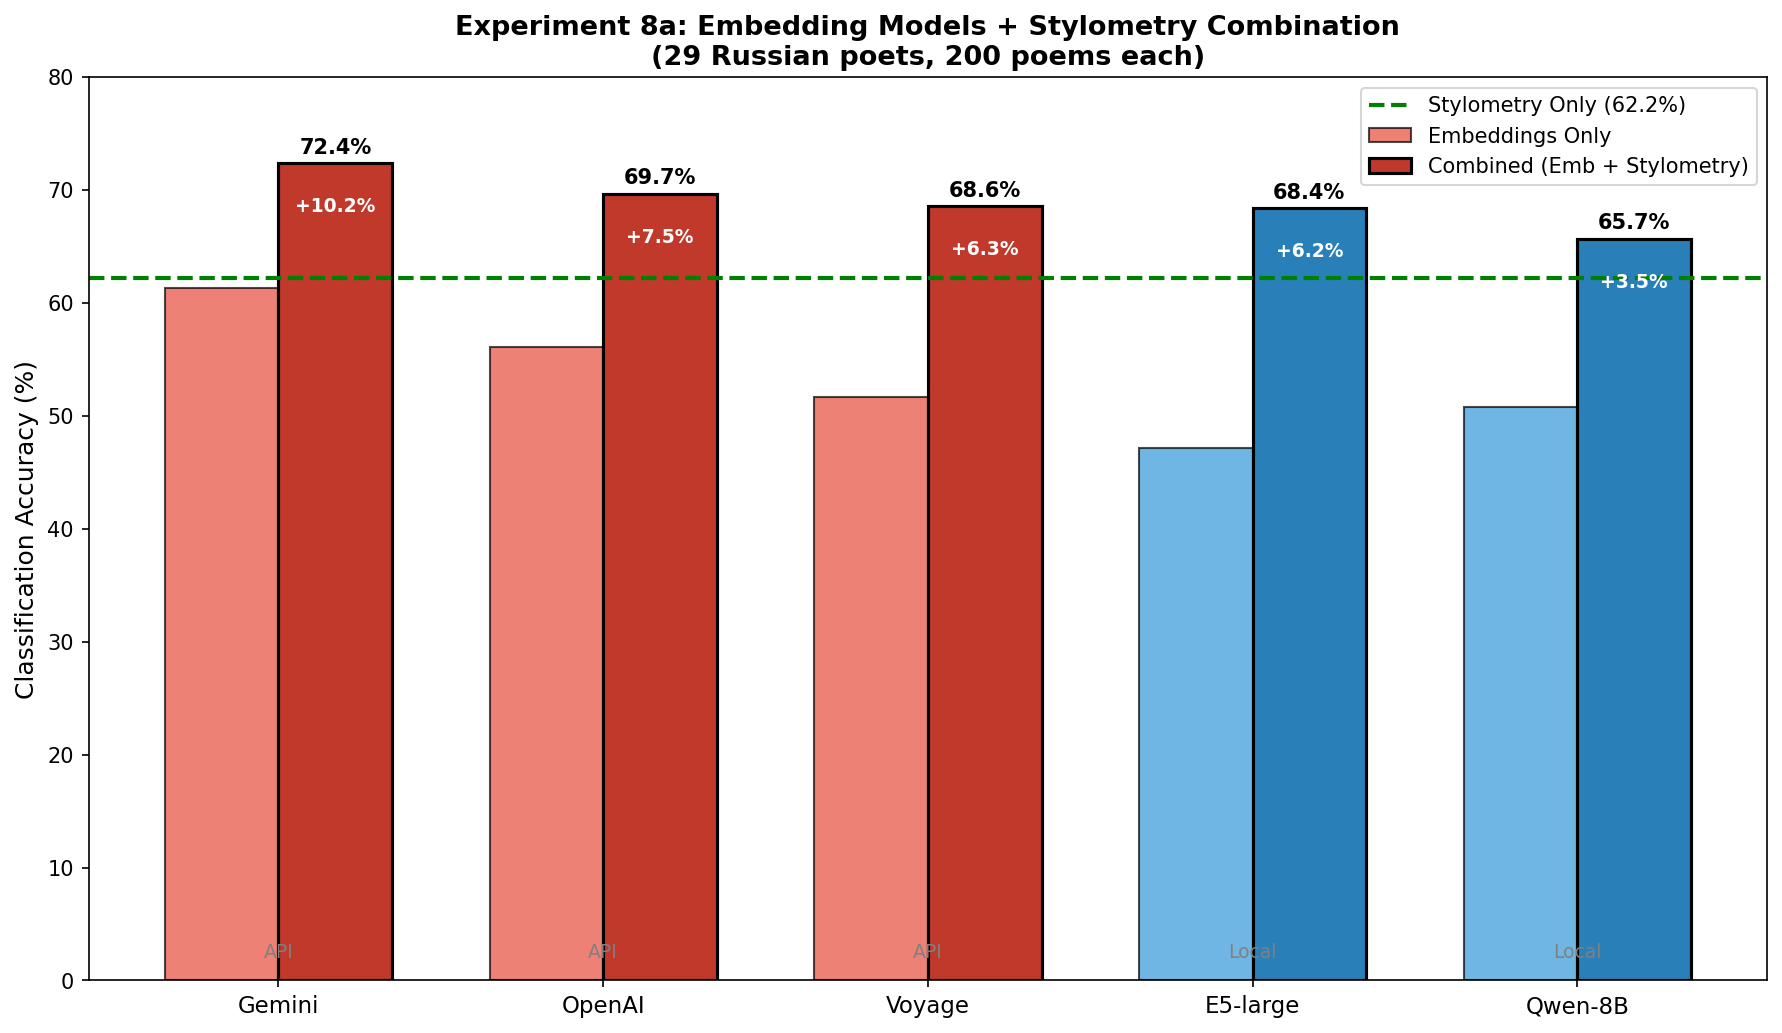
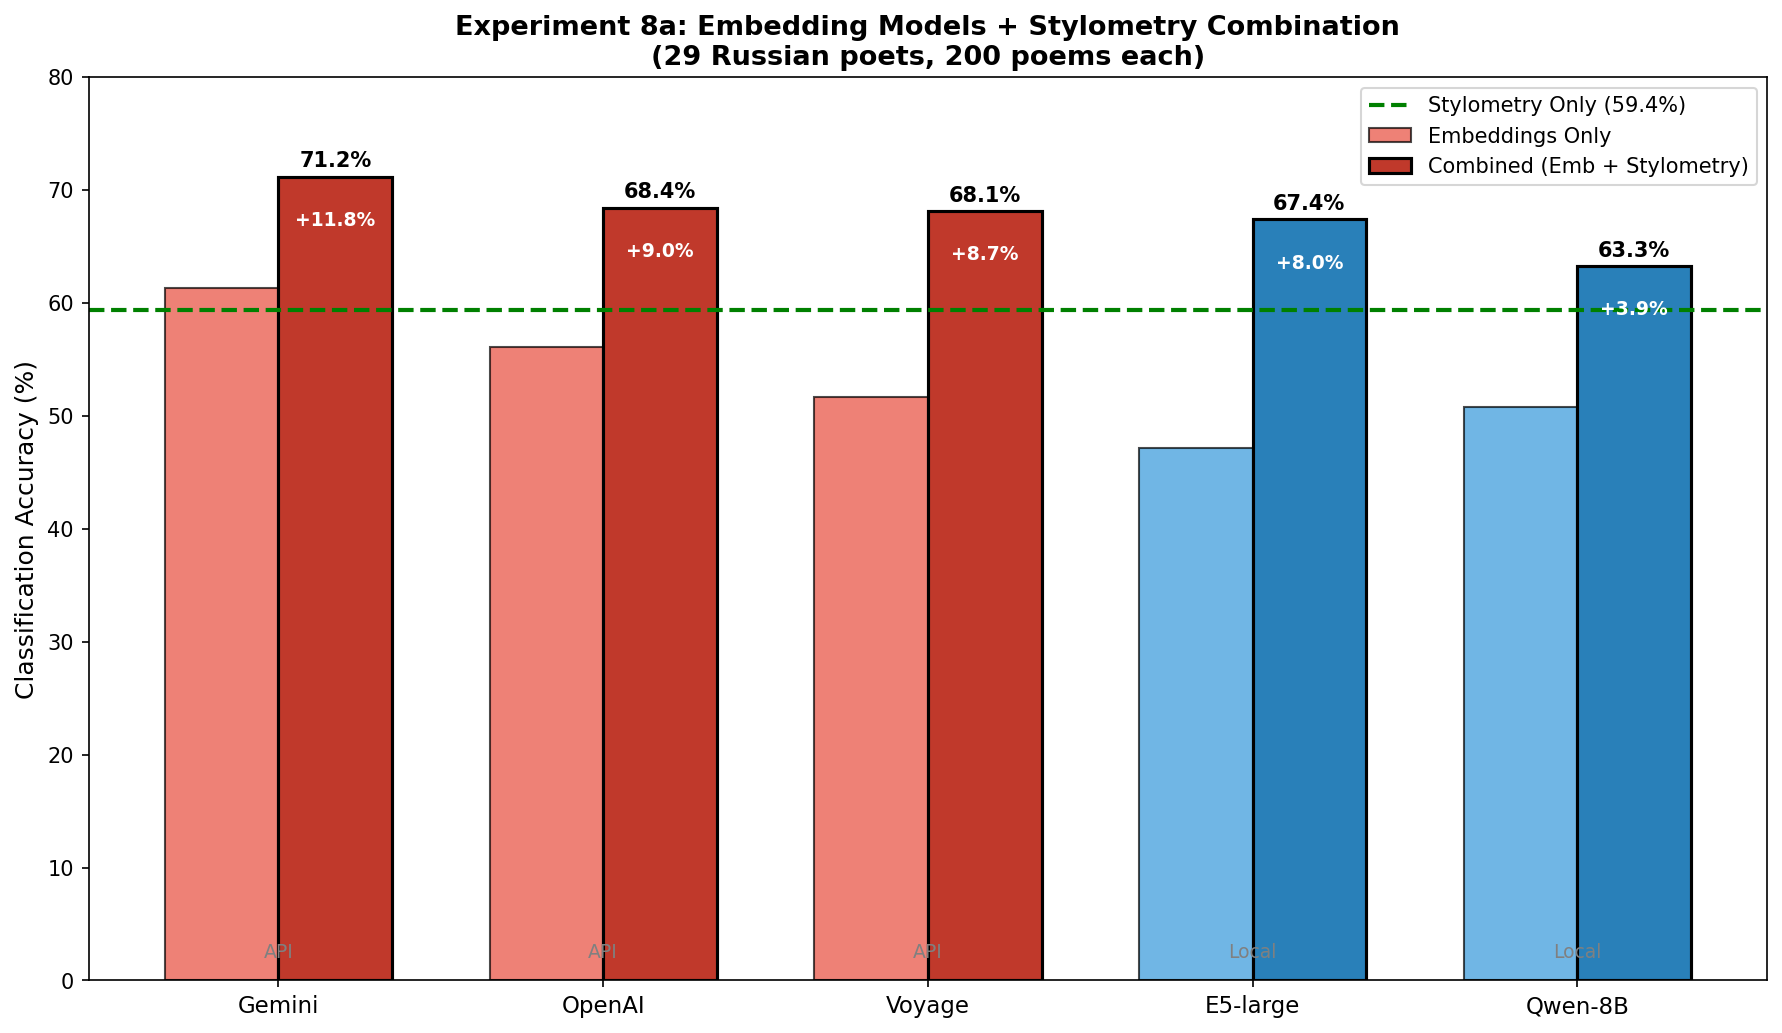
Figures updated

diff --git a/experiments/exp8a_multi_model_comparison/run.py b/experiments/exp8a_multi_model_comparison/run.py
@@ -4,12 +4,18 @@ EXPERIMENT 8a: Multi-Model Comparison with Stylometry
 
 Compare all 7 embedding models with stylometry:
 - Embeddings only
-- Stylometry only (FULL: char n-grams + word n-grams + function words)
+- Stylometry only
 - Combined (embeddings + stylometry)
 - Residualization analysis (unique signal in each)
 
-NOTE (Jan 2026): Updated to use full_combined stylometry (61.7%) instead of
-char 3-grams only (58.4%). This is the proper baseline for fair comparison.
+Stylometry feature set (--stylometry):
+  char3_func (default)  char 3-grams + function words. Matches the paper's
+                        Table "embeddings, stylometry, and their combination"
+                        and the published combined-comparison figures
+                        (Russian stylometry 59.2%, Gemini combined 71.3%).
+  full                  char 2-4 grams + word 1-2 grams + function words.
+                        A broader baseline (Russian 62.2%); does NOT match
+                        the paper's tables. Was the default Jan-Jun 2026.
 
 Models:
 1. Gemini gemini-embedding-001 (API, 3072d)
@@ -23,6 +29,7 @@ Models:
 
 import sys
 import json
+import argparse
 import numpy as np
 from pathlib import Path
 from scipy.sparse import hstack
@@ -163,9 +170,22 @@ def analyze_model(model_name, embeddings, X_char, labels, chance):
 
 
 def main():
+    parser = argparse.ArgumentParser(
+        description="EXP8a: Multi-Model Comparison with Stylometry")
+    parser.add_argument('--stylometry', dest='stylometry_set', default='char3_func',
+                        choices=['char3_func', 'full'],
+                        help="Stylometry feature set. 'char3_func' (default) = char "
+                             "3-grams + function words, matching the paper's tables "
+                             "and published figures. 'full' = char 2-4 grams + word "
+                             "1-2 grams + function words (a broader baseline that "
+                             "scores ~3pp higher and does not match the tables).")
+    args = parser.parse_args()
+    stylometry_set = args.stylometry_set
+
     print("=" * 80)
     print("EXPERIMENT 8a: Multi-Model Comparison with Stylometry")
     print("=" * 80)
+    print(f"Stylometry feature set: {stylometry_set}")
 
     # Load data
     print("\n[Loading data...]")
@@ -181,20 +201,17 @@ def main():
 
     print(f"  Samples: {n_samples}, Authors: {n_authors}")
 
-    # Extract FULL stylometry features (char n-grams + word n-grams + function words)
-    print("\n[Extracting full stylometry features...]")
+    # Stylometry features. Two definitions are supported:
+    #
+    #   char3_func (default) -- char 3-grams + function words. This is the
+    #       definition used by Table "Multiclass attribution for embeddings,
+    #       stylometry, and their combination" and by exp8_combined_features,
+    #       and it is what the published combined-comparison figures show.
+    #   full -- char 2-4 grams + word 1-2 grams + function words. A broader
+    #       baseline; scores ~3pp higher and does NOT match the paper's tables.
+    print(f"\n[Extracting stylometry features: {stylometry_set}...]")
 
-    # Char n-grams (2-4)
-    char_vec = TfidfVectorizer(analyzer='char', ngram_range=(2, 4), max_features=2000)
-    X_char_ngrams = char_vec.fit_transform(texts)
-    print(f"  Char n-grams (2-4): {X_char_ngrams.shape[1]} features")
-
-    # Word n-grams (1-2)
-    word_vec = TfidfVectorizer(analyzer='word', ngram_range=(1, 2), max_features=2000)
-    X_word_ngrams = word_vec.fit_transform(texts)
-    print(f"  Word n-grams (1-2): {X_word_ngrams.shape[1]} features")
-
-    # Function words
+    # Function words (shared by both definitions)
     func_vec = CountVectorizer(analyzer='word', vocabulary=RUSSIAN_FUNCTION_WORDS, lowercase=True)
     X_func_counts = func_vec.fit_transform(texts)
     row_sums = X_func_counts.sum(axis=1).A1
@@ -202,8 +219,22 @@ def main():
     X_func = X_func_counts.multiply(1 / row_sums[:, np.newaxis])
     print(f"  Function words: {X_func.shape[1]} features")
 
-    # Combine all stylometry features
-    X_stylometry_sparse = hstack([X_char_ngrams, X_word_ngrams, X_func])
+    # Char n-grams (2-4) are also used as the "char only" reference below
+    char_vec = TfidfVectorizer(analyzer='char', ngram_range=(2, 4), max_features=2000)
+    X_char_ngrams = char_vec.fit_transform(texts)
+    print(f"  Char n-grams (2-4): {X_char_ngrams.shape[1]} features")
+
+    if stylometry_set == 'char3_func':
+        char3_vec = TfidfVectorizer(analyzer='char', ngram_range=(3, 3), max_features=2000)
+        X_char3 = char3_vec.fit_transform(texts)
+        print(f"  Char 3-grams: {X_char3.shape[1]} features")
+        X_stylometry_sparse = hstack([X_char3, X_func])
+    else:
+        word_vec = TfidfVectorizer(analyzer='word', ngram_range=(1, 2), max_features=2000)
+        X_word_ngrams = word_vec.fit_transform(texts)
+        print(f"  Word n-grams (1-2): {X_word_ngrams.shape[1]} features")
+        X_stylometry_sparse = hstack([X_char_ngrams, X_word_ngrams, X_func])
+
     X_stylometry = X_stylometry_sparse.toarray()
     print(f"  Total stylometry features: {X_stylometry.shape[1]}")
 
@@ -222,6 +253,7 @@ def main():
     # Analyze each model
     all_results = {
         'stylometry': {
+            'feature_set': stylometry_set,
             'full': {'acc': acc_styl, 'std': std_styl, 'features': X_stylometry.shape[1]},
             'char_only': {'acc': acc_char_only, 'std': std_char_only, 'features': X_char.shape[1]}
         },

diff --git a/experiments/exp8a_multi_model_comparison/run_italian.py b/experiments/exp8a_multi_model_comparison/run_italian.py
@@ -17,6 +17,7 @@ Available Italian Models:
 
 import sys
 import json
+import argparse
 import numpy as np
 from pathlib import Path
 from scipy.sparse import hstack
@@ -167,6 +168,16 @@ def analyze_model(model_name, embeddings, X_stylometry, labels, chance):
 
 
 def main():
+    parser = argparse.ArgumentParser(
+        description="EXP8a (Italian): Multi-Model Comparison with Stylometry")
+    parser.add_argument('--stylometry', dest='stylometry_set', default='char3_func',
+                        choices=['char3_func', 'full'],
+                        help="Stylometry feature set. 'char3_func' (default) = char "
+                             "3-grams + function words, matching the paper's tables "
+                             "and published figures. 'full' = char 2-4 grams + word "
+                             "1-2 grams + function words.")
+    stylometry_set = parser.parse_args().stylometry_set
+    print(f"Stylometry feature set: {stylometry_set}")
     print("=" * 80)
     print("EXPERIMENT 8a: Multi-Model Comparison with Stylometry (ITALIAN)")
     print("=" * 80)
@@ -186,18 +197,22 @@ def main():
     print(f"  Samples: {n_samples}, Authors: {n_authors}")
     print(f"  Chance level: {chance:.2%}")
 
-    # Extract FULL stylometry features (char n-grams + word n-grams + function words)
-    print("\n[Extracting full stylometry features...]")
+    # Stylometry features -- see --stylometry.
+    print(f"\n[Extracting stylometry features: {stylometry_set}...]")
 
-    # Char n-grams (2-4)
+    # Char n-grams (2-4) also serve as the "char only" reference below
     char_vec = TfidfVectorizer(analyzer='char', ngram_range=(2, 4), max_features=2000)
     X_char_ngrams = char_vec.fit_transform(texts)
     print(f"  Char n-grams (2-4): {X_char_ngrams.shape[1]} features")
 
-    # Word n-grams (1-2)
-    word_vec = TfidfVectorizer(analyzer='word', ngram_range=(1, 2), max_features=2000)
-    X_word_ngrams = word_vec.fit_transform(texts)
-    print(f"  Word n-grams (1-2): {X_word_ngrams.shape[1]} features")
+    if stylometry_set == 'full':
+        word_vec = TfidfVectorizer(analyzer='word', ngram_range=(1, 2), max_features=2000)
+        X_word_ngrams = word_vec.fit_transform(texts)
+        print(f"  Word n-grams (1-2): {X_word_ngrams.shape[1]} features")
+    else:
+        char3_vec = TfidfVectorizer(analyzer='char', ngram_range=(3, 3), max_features=2000)
+        X_char3 = char3_vec.fit_transform(texts)
+        print(f"  Char 3-grams: {X_char3.shape[1]} features")
 
     # Function words
     func_vec = CountVectorizer(analyzer='word', vocabulary=ITALIAN_FUNCTION_WORDS, lowercase=True)
@@ -207,8 +222,11 @@ def main():
     X_func = X_func_counts.multiply(1 / row_sums[:, np.newaxis])
     print(f"  Function words: {X_func.shape[1]} features")
 
-    # Combine all stylometry features
-    X_stylometry_sparse = hstack([X_char_ngrams, X_word_ngrams, X_func])
+    # Combine stylometry features
+    if stylometry_set == 'full':
+        X_stylometry_sparse = hstack([X_char_ngrams, X_word_ngrams, X_func])
+    else:
+        X_stylometry_sparse = hstack([X_char3, X_func])
     X_stylometry = X_stylometry_sparse.toarray()
     print(f"  Total stylometry features: {X_stylometry.shape[1]}")
 
